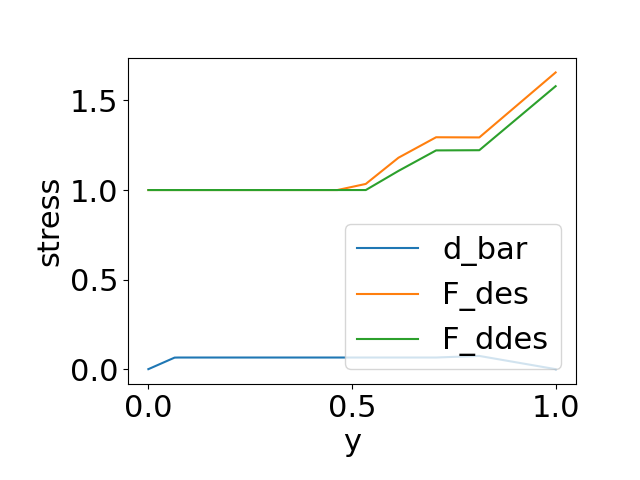
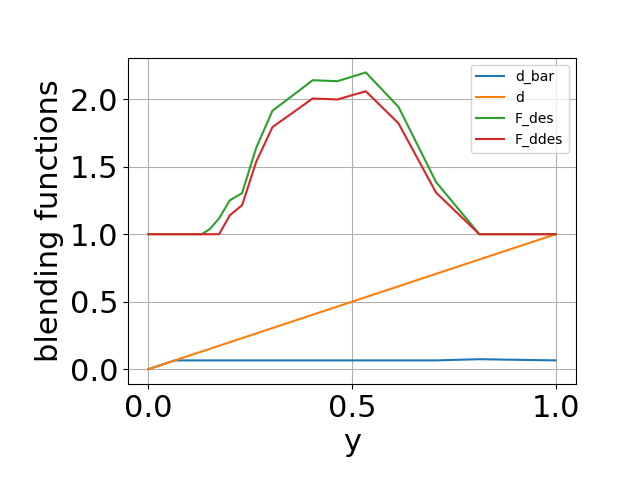
better plotts and stuff

diff --git a/p1_vect_hump.py b/p1_vect_hump.py
@@ -18,8 +18,18 @@ nj=122
 
 nim1=ni-1
 njm1=nj-1
-
 # read data file
+
+vectz=np.genfromtxt("vectz_zonal_pans.dat",comments="%")
+ntstep=vectz[0]
+n=len(vectz)
+nn=12
+nst=0
+ivis=range(nst+10,n,nn)
+
+vis=vectz[ivis]/ntstep
+
+vis_2d_212=np.reshape(vis,(ni,nj)) #this is to total viscosity, i.e. vis_tot=vis+vis_turb
 vectz=np.genfromtxt("vectz_aiaa_paper.dat",comments="%")
 ntstep=vectz[0]
 n=len(vectz)
@@ -86,6 +96,7 @@ vis_2d=np.reshape(vis,(ni,nj)) #this is to total viscosity, i.e. vis_tot=vis+vis
 diss_2d=np.reshape(diss,(ni,nj))
 x_2d=np.transpose(np.reshape(x,(nj,ni)))
 y_2d=np.transpose(np.reshape(y,(nj,ni)))
+
 
 
 
@@ -170,27 +181,43 @@ plt.savefig('vect_python.png')
 
 # U.2
 ind_065 = 8
+ind_08 = 44
+ind_11 = 105
+ind_13 = 145
+
+delta = 0.235
 
 fig1,ax1 = plt.subplots()
 plt.subplots_adjust(left=0.20, bottom=0.20)
-plt.plot(y_2d[ind_065, :], uv_2d[ind_065, :])
-plt.plot(y_2d[ind_065, :], uv_model_2d[ind_065, :])
-plt.xlabel("$y$")
+plt.plot(y_2d[ind_065, :]-y_2d[ind_065, 0], uv_2d[ind_065, :],'--')
+plt.plot(y_2d[ind_065, :]-y_2d[ind_065, 0], uv_model_2d[ind_065, :])
+plt.plot(y_2d[ind_08, :]-y_2d[ind_08, 0], uv_2d[ind_08, :],'--')
+plt.plot(y_2d[ind_08, :]-y_2d[ind_08, 0], uv_model_2d[ind_08, :])
+plt.plot(y_2d[ind_11, :]-y_2d[ind_11, 0], uv_2d[ind_11, :],'--')
+plt.plot(y_2d[ind_11, :]-y_2d[ind_11, 0], uv_model_2d[ind_11, :])
+plt.plot(y_2d[ind_13, :]-y_2d[ind_13, 0], uv_2d[ind_13, :],'--')
+plt.plot(y_2d[ind_13, :]-y_2d[ind_13, 0], uv_model_2d[ind_13, :])
+plt.xlabel("distance from wall")
 plt.ylabel("$uv$")
-plt.title("stress modeled and resolved")
-plt.legend(["Resolved","Modeled"])
-plt.savefig('stress.png')
+plt.title("stress")
+plt.legend(["Resolved 0.65","Modeled 0.65", "Resolved 0.8","Modeled 0.8", "Resolved 1.1","Modeled 1.1", "Resolved 1.3","Modeled 1.3"], prop={'size': 10})
+plt.xlim([0, 0.05])
+plt.savefig('stress_2b.eps')
 
 nu_t_nu = (vis_2d-viscos)/viscos
+nu_t_nu_212 = (vis_2d_212-viscos)/viscos
 nu_t = vis_2d-viscos
 
-fig1,ax1 = plt.subplots()
-plt.subplots_adjust(left=0.20, bottom=0.20)
-plt.plot(y_2d[ind_065, :], nu_t_nu[ind_065, :])
+fig1,ax1 = plt.subplots(figsize=(10,6))
+plt.subplots_adjust(left=0.15, bottom=0.15)
+plt.plot(y_2d[ind_11, :], nu_t_nu[ind_11, :])
+plt.plot(y_2d[ind_11, :], nu_t_nu_212[ind_11, :])
 plt.xlabel("$y$")
-plt.ylabel(r"$\frac{\nu_t}{\nu}$")
-plt.title("turbulent viscosity")
-plt.savefig('turb_vis.png')
+plt.ylabel(r"$\frac{\nu_t}{\nu}$", rotation=0, size=26)
+plt.legend(["212", "178"])
+plt.grid()
+plt.title("turbulent viscosity [x = 1.1]")
+plt.savefig('turb_vis.eps')
 
 # U.3
 # i = 1
@@ -209,18 +236,26 @@ nu_t_dvdy_dx, nu_t_dvdy_dy = dphidx_dy(x_2d_new,y_2d_new,nu_t*v_2d)
 U1_left_1 = (nu_t_dudx_dx + nu_t_dudy_dy)
 U1_left_2 = (nu_t_dvdx_dx + nu_t_dvdy_dy)
 
-C_des = 0.65
-d_x = np.ones((1, nj))*dx
-d_z = np.ones((1, nj))*dz
-delta = np.maximum(d_x, dy)
-delta = np.maximum(delta, d_z)
-d = np.zeros((1, nj))
-for j in range(nj):
-    d_bot = abs(y[j]-y[0])
-    d_top = abs(y[j]-y[-1])
-    d[0,j] = min(d_bot, d_top)
 
-d_bar = np.minimum(d, delta*C_des)
+fig1,ax1 = plt.subplots(figsize=(10,6))
+plt.subplots_adjust(left=0.15, bottom=0.15)
+plt.plot(y_2d[ind_11, :], U1_right_1[ind_11, :])
+plt.plot(y_2d[ind_11, :], U1_right_2[ind_11, :])
+plt.xlabel("$y$")
+plt.ylabel("div stresses", rotation=90, size=20)
+plt.legend(["i = 1", "i = 2"])
+plt.grid()
+plt.title("U1 eq. resolved")
+plt.savefig('div_stress_right.eps')
 
-Lt = k[1:]**(3/2)/diss_2d[1:]
-
+fig1,ax1 = plt.subplots(figsize=(10,6))
+plt.subplots_adjust(left=0.15, bottom=0.15)
+plt.plot(y_2d[ind_11, :], U1_left_1[ind_11, :])
+plt.plot(y_2d[ind_11, :], U1_left_2[ind_11, :])
+plt.xlabel("$y$")
+plt.ylabel("div stresses", rotation=90, size=18)
+plt.yticks(size=14)
+plt.legend(["i = 1", "i = 2"])
+plt.grid()
+plt.title("U1 eq. modeled")
+plt.savefig('div_stress_left.eps')

diff --git a/pl_vect_hump_IDDES.py b/pl_vect_hump_IDDES.py
@@ -129,14 +129,21 @@ for i in range(ni):
 
 
 C_mu = 0.09
-Lt = C_mu*kres2d**(3/2)/eps2d
+Lt = C_mu*(k_model2d + kres2d)**(3/2)/eps2d
 nu_t = vis2d-viscos
+boundary = np.zeros((ni, 1))
+for i in range(ni):
+    for j in range(20,nj):
+        if nu_t[i, j]/viscos < 1:
+            boundary[i, 0] = yp2d[i, j]
+            break
+
 kappa = 0.41
 
 r_dt = nu_t/((kappa**2)*(dw**2)*s2_abs2d)
 
 f_dt = 1 - np.tanh((8*r_dt)**3)
-h_max = np.max(y2d[:, 0])
+h_max = 0.128
 alpha = 0.25 - dw/h_max
 f_B = np.minimum(2*np.exp(-9*(alpha**2)), np.ones((ni, nj)))
 
@@ -155,7 +162,7 @@ for i in range(ni):
             break
 
 
-F_DES = np.maximum(kres2d**(3/2)/(C_des*eps2d*delta), np.ones((ni,nj)))
+F_DES = np.maximum(Lt/(C_des*delta), np.ones((ni,nj)))
 
 sst_des_switch = np.zeros((ni,1))
 
@@ -167,13 +174,73 @@ for i in range(ni):
 
 fig1,ax1 = plt.subplots()
 plt.subplots_adjust(left=0.20,bottom=0.20)
-#plt.plot(xp2d[:,0],iddes_ref_loc)
-plt.plot(xp2d[:,0],fd_switch)
+plt.plot(xp2d[:,0],iddes_ref_loc)
+#plt.plot(xp2d[:,0],fd_switch)
 #plt.plot(xp2d[:,0],SA_DES_switch)
 #plt.plot(xp2d[:,0],sst_des_switch)
-plt.plot(xp2d[:,0],fdt_switch)
+#plt.plot(xp2d[:,0],fdt_switch)
 plt.plot(x2d[:,0],y2d[:,0], 'k')
 plt.xlabel("$x$")
 plt.ylabel("$y$")
 plt.title("interface location")
 plt.savefig('psi.eps')
+
+ind_065 = 290
+ind_08 = 326
+ind_11 = 386
+ind_13 = 426
+
+fig1,ax1 = plt.subplots(figsize=(10,6))
+plt.subplots_adjust(left=0.15, bottom=0.15)
+plt.plot(yp2d[ind_065, :]-yp2d[ind_065, 0], psi2d[ind_065, :])
+plt.plot(yp2d[ind_065, :]-yp2d[ind_065, 0], f_d[ind_065, :], '--')
+plt.plot(yp2d[ind_08, :]-yp2d[ind_08, 0], psi2d[ind_08, :])
+plt.plot(yp2d[ind_08, :]-yp2d[ind_08, 0], f_d[ind_08, :], '--')
+plt.plot(yp2d[ind_11, :]-yp2d[ind_11, 0], psi2d[ind_11, :])
+plt.plot(yp2d[ind_11, :]-yp2d[ind_11, 0], f_d[ind_11, :], '--')
+plt.plot(yp2d[ind_13, :]-yp2d[ind_13, 0], psi2d[ind_13, :])
+plt.plot(yp2d[ind_13, :]-yp2d[ind_13, 0], f_d[ind_13, :], '--')
+plt.xlabel("$y$")
+plt.ylabel("Blending functions", rotation=90, size=18)
+plt.yticks(size=14)
+plt.legend([r"$\psi$", "f_d"])
+plt.grid()
+plt.xlim([0, 0.1])
+plt.title(r"$\psi$ and f_d [x = 0.65, 0.8, 1.1, 1.3]")
+plt.savefig('Blending_U4.eps')
+
+fig1,ax1 = plt.subplots(figsize=(10,6))
+plt.subplots_adjust(left=0.15, bottom=0.15)
+plt.plot(xp2d[:, 0], iddes_ref_loc)
+plt.plot(xp2d[:, 0], SA_DES_switch)
+plt.plot(xp2d[:, 0], sst_des_switch)
+plt.plot(xp2d[:, 0], fdt_switch)
+plt.plot(xp2d[:, 0], fd_switch)
+plt.plot(xp2d[:, 0], boundary)
+plt.plot(x2d[:, 0], y2d[:,0], 'k')
+plt.xlabel("$x$")
+plt.ylabel("switch location [y]", rotation=90, size=18)
+plt.ylim([0,np.max(y)])
+plt.yticks(size=14)
+plt.legend(["IDDES", "SA DES", "SST DES", "DDES (f_dt)","f_d" ,r"Boundary layer $(\nu_t/\nu)$", "Wall"], prop={"size": 10})
+plt.grid()
+plt.title("Interface location")
+plt.savefig('interface.eps')
+
+fig1,ax1 = plt.subplots(figsize=(10,6))
+plt.subplots_adjust(left=0.15, bottom=0.15)
+plt.plot(xp2d[:, 0], iddes_ref_loc)
+plt.plot(xp2d[:, 0], SA_DES_switch)
+plt.plot(xp2d[:, 0], sst_des_switch)
+plt.plot(xp2d[:, 0], fdt_switch)
+plt.plot(xp2d[:, 0], fd_switch)
+plt.plot(xp2d[:, 0], boundary)
+plt.plot(x2d[:, 0], y2d[:,0], 'k')
+plt.xlabel("$x$")
+plt.ylabel("switch location [y]", rotation=90, size=18)
+plt.ylim([0,0.15])
+plt.yticks(size=14)
+plt.legend(["IDDES", "SA DES", "SST DES", "DDES (f_dt)","f_d",r"Boundary layer $(\nu_t/\nu)$", "Wall"], prop={"size": 10})
+plt.grid()
+plt.title("Interface location")
+plt.savefig('interface_zoom.eps')

diff --git a/pl_uvw_IDD_PANS.py b/pl_uvw_IDD_PANS.py
@@ -18,7 +18,7 @@ nk=34
 viscos=1./5200.
 
 # loop over nfiles
-nfiles=3
+nfiles=16
 #initialize fields
 u3d_nfiles=np.zeros((ni,nj,nk,nfiles+1))
 v3d_nfiles=np.zeros((ni,nj,nk,nfiles+1))
@@ -161,10 +161,12 @@ plt.subplots_adjust(left=0.20,bottom=0.20)
 
 plt.plot(y[1:],k_res[1:],'b-')
 plt.plot(y[1:],temean[1:],'g-')
-plt.ylabel("$k_{res}$")
+plt.plot(y[1:],temean[1:]+k_res[1:],'r')
+plt.legend(["modeled", "resolved", "sum"])
+plt.grid()
+plt.ylabel("$k}$")
 plt.xlabel("$y$")
-
-plt.savefig('kres.png')
+plt.savefig('kres.eps')
 
 plt.show()
 
@@ -178,6 +180,10 @@ C_mu = 0.09
 f_mu = 0.4
 nu_t = C_mu*f_mu*(te3d[:,1:,:]**2)/eps3d[:,1:,:]
 
+nu_t_mean = np.mean(nu_t, axis=(0,2))
+
+nu_t_nu = nu_t_mean/viscos
+
 tau_12 = -2*nu_t*(dudy[:,1:,:] + dvdx[:,1:,:])
 
 tau_12_mean=np.mean(tau_12, axis=(0,2))
@@ -188,8 +194,9 @@ plt.plot(y[1:],tau_12_mean,'b-')
 plt.plot(y[1:],uvmean1[1:],'g-')
 plt.ylabel("stress")
 plt.xlabel("y")
-plt.legend(["modeled","resolved"])
-plt.savefig('shear_stress.png')
+plt.grid()
+plt.legend(["modeled", "resolved"])
+plt.savefig('shear_stress.eps')
 
 plt.show()
 
@@ -202,13 +209,12 @@ delta = np.maximum(delta, d_z)
 d = np.zeros((1, nj))
 for j in range(nj):
     d_bot = abs(y[j]-y[0])
-    d_top = abs(y[j]-y[-1])
-    d[0,j] = min(d_bot, d_top)
+    d[0,j] = d_bot
 
 d_bar = np.minimum(d, delta*C_des)
 
-Lt = temean[1:]**(3/2)/epsmean[1:]
-F_des = np.maximum(Lt/(C_des*delta[0, 1:]), 1)
+Lt = C_mu*(temean+k_res)**(3/2)/np.maximum(epsmean, np.ones((1, nj))**-10)
+F_DES = np.maximum(Lt/(C_des*delta), np.ones((1,nj)))
 
 beta_star = C_mu
 
@@ -217,16 +223,18 @@ xi = np.maximum(2*temean[1:]**(3/2)/(epsmean[1:]*y[1:]), 500*viscos/(omega[1:]*y
 
 F_2 = np.tanh(xi**2)
 
-F_ddes = np.maximum(Lt/(C_des*delta[0, 1:])*(1-F_2), 1)
+F_ddes = np.maximum(Lt[0,1:]/(C_des*delta[0, 1:])*(1-F_2), np.ones((1,nj-1)))
 
 fig1,ax1 = plt.subplots()
 plt.subplots_adjust(left=0.20,bottom=0.20)
 plt.plot(y[1:],d_bar[0,1:])
-plt.plot(y[1:],F_des)
-plt.plot(y[1:],F_ddes)
-plt.ylabel("stress")
+plt.plot(y[1:],d[0,1:])
+plt.plot(y,np.transpose(F_DES))
+plt.plot(y[1:],np.transpose(F_ddes))
+plt.grid()
+plt.ylabel("blending functions")
 plt.xlabel("y")
-plt.legend(["d_bar","F_des","F_ddes"])
-plt.savefig('interface_loc.png')
+plt.legend([r"\bar{d}","d","F_des","F_ddes"], prop={'size': 10})
+plt.savefig('interface_loc.eps')
 
 plt.show()
